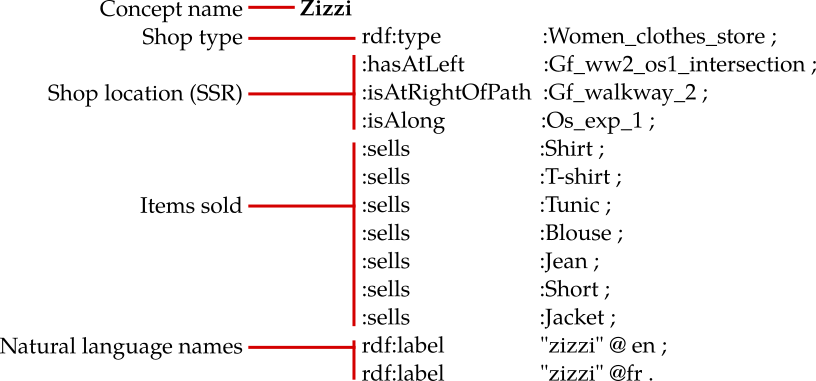
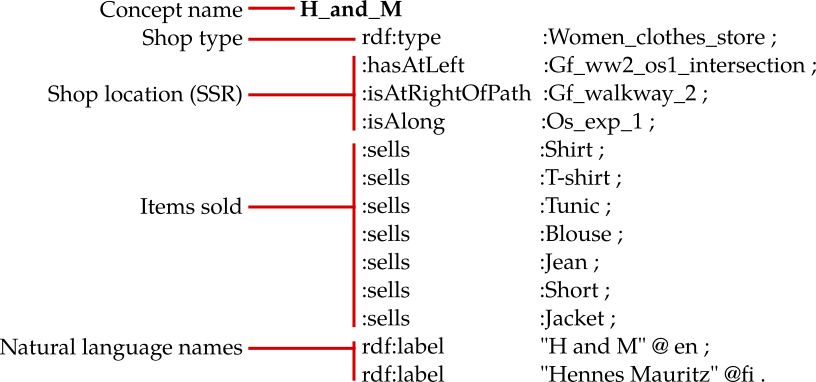
chapter 8 KBs

diff --git a/Chapter8.tex b/Chapter8.tex
@@ -38,42 +38,62 @@ The first pilot study consisted of a human guide providing route information. It
 \begin{figure}[ht!]
 \centering
 \includegraphics[scale=0.35]{figures/chapter8/human_guide.png}
-\caption{\label{fig:chap8_human_guide} Picture from the second Human-Human study \cite{belhassein_2017_human}. Here, the guide is giving the route description to reach a given shop by pointing at it. The formation formed by the guide, teh customer, and the target were analyzed. }
+\caption{\label{fig:chap8_human_guide} Picture from the second Human-Human study \cite{belhassein_2017_human}. Here, the guide is giving the route description to reach a given shop by pointing at it. The formation formed by the guide, the customer, and the target was analyzed. }
 \end{figure}
 
 A second exploratory study was then carried out to focus on more complex situations. Among them, we can note situations with two customers requesting directions simultaneously, a customer requesting for two shops at the time, or someone interrupting an ongoing interaction. Once again the formations were analyzed. An example of such a formation seen during the study can be seen in figure~\ref{fig:chap8_human_guide}. The full results can be found in~\cite{Heikkilae_2018_where} and~\cite{heikkilae_2019_should}. Among these results, the study has shown that the guide usually points to the general location of the target first and in a second step explain and point the different stages of the route.
 
 \section{The deliberative architecture}
 
+In this section, we present the robotic architecture developed to handle the direction-giving task. This architecture relates to Beliefs, Desires, Intentions (BDI) architectures. As explain by~\cite{wooldridge_1999_intelligent}, such a kind of architecture is primarily focused on practical reasoning, meaning the process of deciding step by step which action to perform to reach a goal. 
+
 \begin{figure}[ht!]
 \centering
 \includegraphics[width=\textwidth]{figures/chapter8/architecture.png}
-\caption{\label{fig:chap8_architecture} todo. }
+\caption{\label{fig:chap8_architecture} The general architecture developed for the robot guide. The components presented in this chapter are the colored blocks. The red components with the symbol * are the ones on which I participate. The visual perception and dialogue components have been respectively developed by IDIAP and HWU and are described by~\cite{foster_2019_mummer}. Naoqi is a Softbank Robotics software. }
 \end{figure}
+
+The figure~\ref{fig:chap8_architecture} represents the architecture, its components, and their interconnections. Communication between component relies on ROS. In this chapter, we only present the components developed by the LAAS-RIS team, represented by the colored blocks on the architecture. First, we present the two knowledge representations in the form of geometric and semantic representations. Next, we introduce the components related to the sensorimotor layer. It is the situation assessment and the physical resource manager. Then, we present the components related to the deliberative layer. They are the Human-Aware Navigation, the SVP planner, and finally, the on linking all the components, the Supervision. The Route Handler, part of the deliberative layer, having been presented in detail in chapter~\ref{chap:3}, will not be presented in this chapter.
 
 \subsection{Environment representation}
 
+For a service robot providing directions to people, we needed information to understand humans' need, information to compute the route to the goal, and information to compute the visibility of both agents to plan the pointing position. To understand the needs of a human wanted to be guided, we need information about the type of stores and the sold items. To provide so, \cite{satake_2015_field, satake_2015_should} used an ontology. To compute the route to the final destination, \cite{matsumoto_2012_you} or \cite{okuno_2009_providing} used a topological map. Wich node of the graph is related to a 2D position of the environment. To estimate the human visibility of elements anywhere in the environment, \cite{matsumoto_2012_you} used a simplified 3D model where shops are represented by 3D polygons. In our implementation, we only used two types of representation of the environment: a \textbf{geometric} and a \textbf{semantic}.
+
+Since the final deployment of the robot is in a Finland mall, we have built an emulated mall in our lab for development purposes. The representations describe hereafter have thus been created both for the real mall and the emulated one.
+
 \subsubsection{Geometric representation}
+
+The geometric representation is used to compute the visibility of elements of the environment from different positions needed for the pointing of landmarks. However, because the robot does not accompany the person to the final destination and therefore does not move much, the possible visibility of the two agents is limited to their immediate environment. For this reason and due to the large scale of the Finland mall, we chose to geometrically describe only the subpart of the global environment that could be visible from the interaction area. For the rest of the environment, we represented the shops with 3D points only. These points are enough to point in the right direction. The resulting geometrical representation is a three-dimensional mesh model, as shown in figure.~\ref{fig:chap8_adream_base} for the emulated mall and in figure~\ref{fig:chap8_ideapark_base} for the real one. We have represented in the 3D model all the elements that could hinder visibility, such as poles or panels. In this way, we can precisely emulate human visibility. The model was created from the architectural plans first and then refined with measurements in the mall.
 
 \begin{figure}[ht!]
 \centering
 \includegraphics[scale=0.15]{figures/chapter8/adream_base_m.png}
-\caption{\label{fig:chap8_adream_base} todo. }
+\caption{\label{fig:chap8_adream_base} The 3D mesh model of the emulated mall at laboratory. The red square represent the interaction area as a square of 4 meters per 4 meters. Signs representing the shops have been place all around the environment. }
 \end{figure}
 
 \begin{figure}[ht!]
 \centering
 \includegraphics[scale=0.15]{figures/chapter8/ideapark_base_m.png}
-\caption{\label{fig:chap8_ideapark_base} todo. }
+\caption{\label{fig:chap8_ideapark_base} The 3D mesh model of the real mall in Finland. The entire mall having a size of 528.6 meters per 247.5 meters on two levels, we have only modelled the part which can be visible from the interaction area. It results in a model of 150 meters per 69 meters. }
 \end{figure}
 
+In order for the pointing planner to compute the visibility of the landmarks used for the route description, stairs, escalators, elevators, and store signs are represented each by a single mesh while the rest of the building is a unique 3D mesh. This means that a store is said to be visible if we can see its sign, which we think to be the most relevant element to see to recognize a shop.
+
+The 3D model is also used to generate a navigation map, constraining the robot to move in the interaction area while avoiding obstacles in it.
+
 \subsubsection{Semantic representation}
+
+The environment semantic representation is oriented toward communication and human navigation in a mall. It makes use of the terms, affordances and actions that are needed to walk around in the mall. It represents the needed human-robot common ground knowledge and is used by the robot to perform dialog acts concerning shop names and categories a well as the types of products sold.
+
+This representation takes the form of an ontology. It uses the \acrfull{ssr} to describe the environment topology. The notion of place is then extended to represent information about the stores. It allows to define and refine the shared goal of the task by understanding the client's wanted destination. We thus represented in it the stores' types, their names, and the items they sell with a rich semantic. It allows for example to represent that both soda and hamburgers are sold in fast-foods, which are types of restaurants, but that soda can also be found in a supermarket. Thanks to Ontologenius, the names of concepts are defined in different languages and with synonyms for these names. It allows the robot to adapt itself to the human partner language. Moreover, with Ontologenius, we endow the robot with the ability to recognize a set of names in natural language but that it will be prevented to use. For example, the robot can understand a reference to ``bank'' when a human says it but only refers to it as ``ATM'' or ``cash machine'' since there was no bank office in the mall. In addition, we used the provided fuzzy matching service to help the supervision system to handle ambiguities coming from the speech-to-text component. For example, if the language recognition module catches the word ``Juwelsport'', we can match it with ``Juvesport'', being a shop in the mall. This set of functionalities around the concepts' names facilitates the understanding of the partner's need and thus helps at increasing the quality of interaction.
 
 \begin{figure}[ht!]
 \centering
 \includegraphics[scale=0.45]{figures/chapter8/zizzi.png}
-\caption{\label{fig:chap8_zizzi} todo. }
+\caption{\label{fig:chap8_zizzi} Representation of the knowledge about the shop H\&M stored in the ontology. We have both purely semantic knowledge and topological information. }
 \end{figure}
+
+An example of the final semantic knowledge represented in the ontology for a given shop is presented in figure.~\ref{fig:chap8_zizzi} for a clothes shop called ``H\&M''. We find in this description the identifier of the shop, the category to which each store belongs, the topological information, the items sold and the names and synonyms in natural language and that for different languages.
 
 \subsection{Perceiving the partner}
 
@@ -96,6 +116,8 @@ A second exploratory study was then carried out to focus on more complex situati
 \subsection{Navigate close to the human}
 
 \subsection{Executing and controling the task}
+
+%Finally, there is the deliberative layer. A component, the Supervisor, implements joint action guidelines in order to manage the direction-giving task as a human-robot joint activity. It makes use of a number of human-aware decisional modules: establishment of shared goal through dialogue, planning taking into account human preferences, planning for both in order to ensure a pertinent placement of the human and the robot, reasoning and adapting to human perspective of the scene, monitoring human commitment and step by step contribution to the joint task. The action sequencing and the incremental task-refinement process follows the steps and the main decisions exhibited in the human-human studies. Not only the Supervisor takes the human into account but the other components of our deliberative layer as well, enabling the robot to be human-aware at each step of the collaborative task. The \textit{Route Handler}, based on the \textit{Semantic Representation}, deals with the entire description of the route, from the search for the best route to get to humans to their final destination, to the verbalization of this route which takes into account human orientations. The \textit{Human-aware Navigation} of the robot is implemented using a reactive navigation planner. This algorithm is able to plan and continuously adapt robot motion close to humans while respecting social constraints. The \textit{Shared Visual Perspective (SVP) Planner} helps to overcome the possible blocking of the visibility of important landmarks while giving directions, trying to find a position where the human will have to be in order to observe the route passage and also to find one for the robot which satisfies a nice human-robot-landmark conformation for pointing. Finally, The \textit{Dialogue} has been developed by HWU and is described by~\cite{Papaioannou2018}. We will not further go in the details about the functioning of this component as it is out of the paper scope. 
 
 \section{Embody architecture in a physical robot}
 
